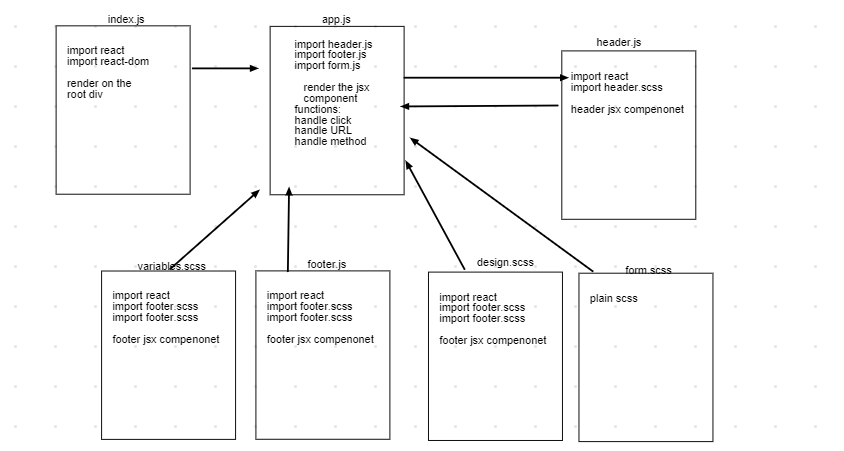
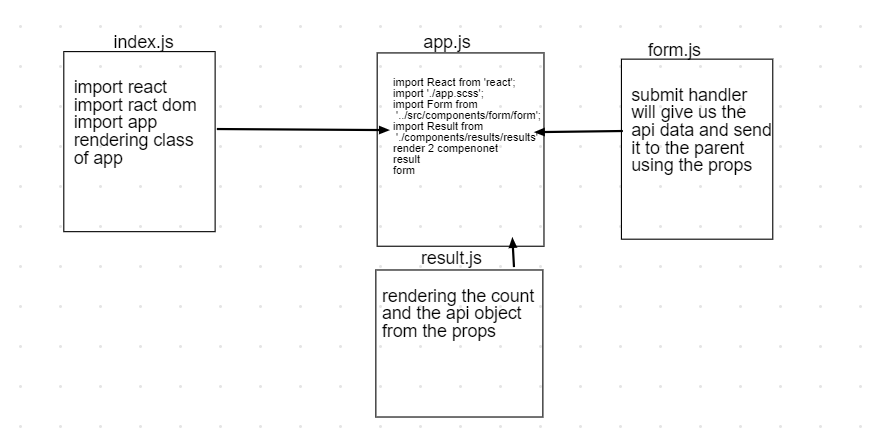
rsety api

diff --git a/src/components/form/form.js b/src/components/form/form.js
@@ -1,7 +1,7 @@
 import React from 'react';
 
 import './form.scss';
-
+var count;
 class Form extends React.Component {
 
   constructor(props) {
@@ -13,24 +13,39 @@ class Form extends React.Component {
     };
   }
 
-  handleSubmit = e => {
+  handleSubmit = async e => {
     e.preventDefault();
+    if (this.state.url && this.state.method) {
+      console.log('entered the function');
+      console.log('state url',this.state.url);
+      let raw = await fetch(this.state.url);
+      console.log('raw',raw);
+      let data = await raw.json();
+      let headers=raw.headers;
+      console.log('headers',headers);
+      // if(data.count)
+      if (data.count)
+      {
+         count=data.count;
+      }
+      else
+      {
+       count=Object.keys(data).length;
 
-    if ( this.state.url && this.state.method ) {
+      }
 
+      console.log("data.results : ", data);
+
+      this.props.handler(data,count,headers);
       // Make an object that would be suitable for superagent
       let request = {
         url: this.state.url,
         method: this.state.method,
       };
-
-      // Clear old settings
       let url = '';
       let method = '';
 
-      this.setState({request, url, method});
-      // e.target.reset();
-
+      this.setState({ request, url, method });
     }
 
     else {
@@ -40,11 +55,12 @@ class Form extends React.Component {
 
   handleChangeURL = e => {
     const url = e.target.value;
-    this.setState({url});
+    this.setState({ url });
   };
 
   handleChangeMethod = e => {
-    const method = e.target.id;
+
+    let method = 'get'||e.target.id;
     this.setState({ method });
   };
 
@@ -64,10 +80,7 @@ class Form extends React.Component {
             <span className={this.state.method === 'delete' ? 'active' : ''} id="delete" onClick={this.handleChangeMethod}>DELETE</span>
           </label>
         </form>
-        <section className="results">
-          <span className="method">{this.state.request.method}</span>
-          <span  className="url">{this.state.request.url}</span>
-        </section>
+        
       </>
     );
   }

diff --git a/src/app.js b/src/app.js
@@ -1,23 +1,29 @@
 import React from 'react';
-
 import './app.scss';
-
-// Let's talk about using index.js and some other name in the component folder
-// There's pros and cons for each way of doing this ...
-import Header from './components/header';
-import Footer from './components/footer';
-import Form from './components/form/form.js';
+import Form from '../src/components/form/form';
+import Result from './components/results/results';
 
 class App extends React.Component {
-  render() {
-    return (
-      <React.Fragment>
-        <Header />
-        <Form />
-        <Footer />
-      </React.Fragment>
-    );
-  }
+    constructor(props) {
+        super(props);
+        this.state = {
+            count:0,
+            results: [],
+            headers:[]
+        };
+    }
+    handleForm = (results,count,headers) => {
+        this.setState({results,count,headers});
+    }
+
+    render() {
+        return (
+            <>
+                <Form handler={this.handleForm} />
+                <Result headers={this.state.headers} count={this.state.count} results={this.state.results} />
+            </>
+        )
+    }
 }
 
 export default App;

diff --git a/src/components/results/results.js b/src/components/results/results.js
@@ -1,0 +1,21 @@
+import React from 'react';
+import '../form/form.scss';
+const Result = (props) => {
+    return (
+        <div>
+                {
+                    <section className="results">
+                <div>Count: {props.count}</div>
+                <span>Header:<pre>{JSON.stringify(props.headers, null, 2) }</pre></span>
+                    <span className="method"><pre>{JSON.stringify(props.results, null, 2) }</pre></span>
+                  </section>
+                
+                }
+                </div>
+    )                  
+            
+                            
+                
+}   
+    
+export default Result;

diff --git a/README.md b/README.md
@@ -1,15 +1,14 @@
 # resty-lab
 
-## Project: lab-27
+## Project: lab-28
 
 ### Author: Alaa almasri
 
 ### Links and Resources
 
-- [submission PR](https://github.com/alaaalmasri12/resty-lab/pull/1)
+- [submission PR](https://github.com/alaaalmasri12/resty-lab/pull/2)
 - [github link](https://alaaalmasri12.github.io/resty-lab/)
 - [netlify](https://eloquent-wiles-c1136a.netlify.app/)
-- [submission PR](https://github.com/alaaalmasri12/resty-lab/pull/1)
 
 
 
@@ -18,6 +17,6 @@
 - e.g. `npm run start`
 
 #### UML
-![lab26](assets/resty.png)
+![lab28](assets/resty.png)
 
 
